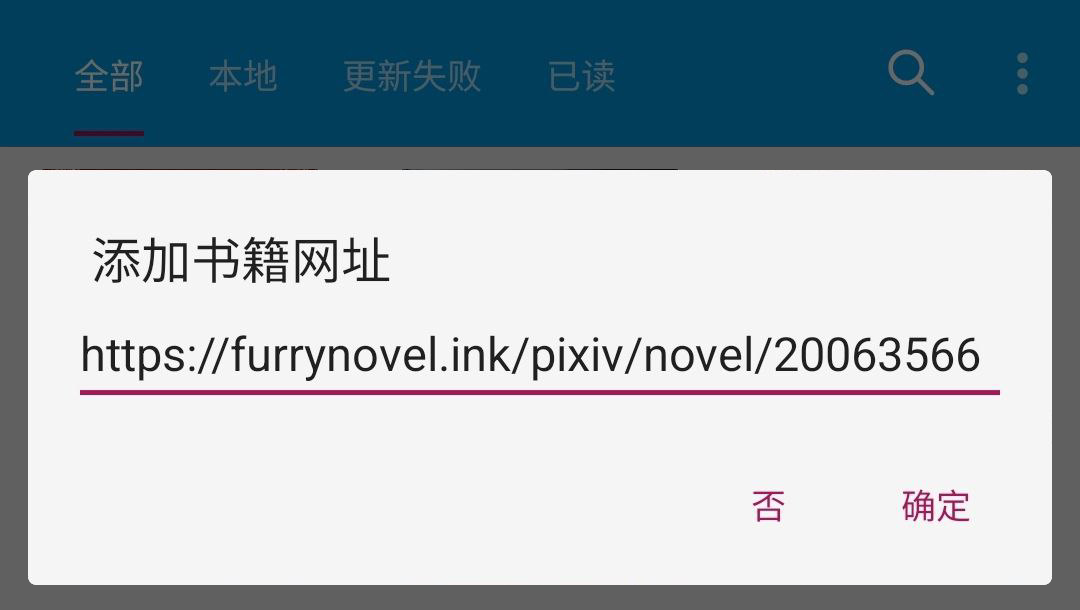
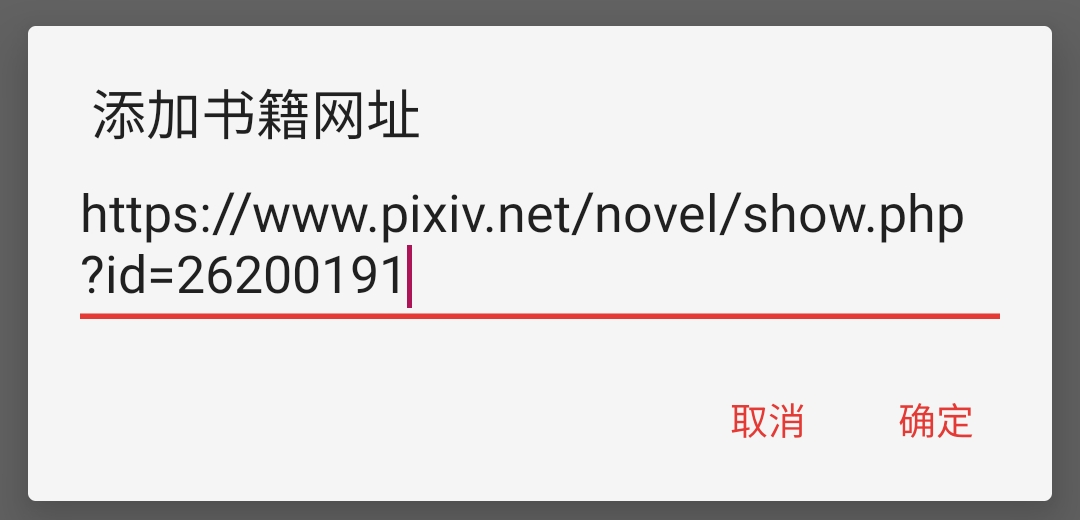
文档：添加小说：添加网址

diff --git a/doc/CommonSuffix.md b/doc/CommonSuffix.md
@@ -2,14 +2,12 @@
 <div v-if="pagePath.includes('BetterExperience') || pagePath.includes('QuickStart')">
 
 - ⭐️ [发现小说](Pixiv.md#DiscoverNovel)：发现页面，查看小说，添加小说到书架
-- 🔗 [添加网址](Pixiv.md#AddUrl)：书架页面，通过 **【添加网址】** 添加小说到书架
 - 🌐 [订阅源](Pixiv.md#RssSource)：订阅页面，通过 **【订阅源】** 添加小说到书架
-- ▶️ 全部功能详见 [Pixiv 书源 功能手册](Pixiv.md)
 ## 📖 添加小说 {#EnjoyReading}
 ### 🔍 [搜索小说](Pixiv.md#SearchNovel)
 > [!NOTE]
 >
-> **书架页面 - 放大镜 - 输入关键词 - 搜索小说**
+> **书架页面 - 放大镜 - 输入关键词 - 搜索小说 - 添加小说到书架**
 
 > [!TIP]
 > ✅ 默认同时搜索： **小说名称、系列小说名称、标签**
@@ -29,9 +27,46 @@
 点击搜索结果，进入小说详情页面
 ![img](./pic/BookInformation.png)
 
-点击【放入书架】，添加小说到书架；或点击【阅读】，开始试读
+点击【放入书架】，添加小说到书架
 
 
+### ⭐️ [发现小说](Pixiv.md#DiscoverNovel)
+发现页面，查看小说，添加小说到书架
+
+
+### 🔗 [添加网址](Pixiv.md#AddUrl)
+> [!NOTE]
+>
+> **书架 - 菜单 - 添加网址 - 粘贴小说链接 - 添加小说到书架**
+
+> [!TIP]
+> 
+> **可以同时添加多个小说的链接，支持链接：**
+> - **Pixiv 单篇小说链接**
+> - **Pixiv 系列小说链接**
+> - **Pixiv 作者链接（添加近期1本小说）**
+> 更多详见 [添加网址](Pixiv.md#AddUrl)
+
+
+当你收到 Pixiv 的链接时，可以通过添加网址，将其添加到书架
+
+![img](./pic/AddBookViaUrl1.png)
+![img](./pic/AddBookViaUrl2.png)
+
+> [!WARNING]
+> 
+> **无法添加**：Pixiv App 小说分享链接 **（删掉#号即可正常添加）**
+```
+测试页面 | 唐尼瑞姆 #pixiv https://www.pixiv.net/novel/show.php?id=26200191
+```
+
+![img](./pic/AddBookViaUrl3.png)
+
+
+### 🌐 [订阅源](Pixiv.md#RssSource)
+订阅页面，通过 **【订阅源】** 添加小说到书架
+
+### ▶️ 全部功能详见 [Pixiv 书源 功能手册](Pixiv.md)
 </div>
 
 

diff --git a/doc/CommonAddViaLink.md b/doc/CommonAddViaLink.md
@@ -18,7 +18,7 @@
 支持 Pixiv 多个格式的网址链接：
 - Pixiv 单篇小说链接
 ```
-https://www.pixiv.net/novel/show.php?id=20063566
+https://www.pixiv.net/novel/show.php?id=26200191
 ```
 - Pixiv 系列小说链接
 ```
@@ -31,7 +31,7 @@ https://www.pixiv.net/users/16721009
 **无法添加的链接：**
 - Pixiv App 小说分享链接 **（删掉#号即可正常添加）**
 ```
-测试页面 | 唐尼瑞姆 #pixiv https://www.pixiv.net/novel/show.php?id=20063566
+测试页面 | 唐尼瑞姆 #pixiv https://www.pixiv.net/novel/show.php?id=26200191
 ```
 </div>
 

diff --git a/doc/Pixiv.md b/doc/Pixiv.md
@@ -156,7 +156,7 @@ const pagePath = computed(() => page.value.relativePath.replace(/\.md$/, ""));
 ## 搜索小说 {#SearchNovel}
 > [!NOTE]
 >
-> **书架页面 - 放大镜 - 输入关键词 - 搜索小说**
+> **书架页面 - 放大镜 - 输入关键词 - 搜索小说 - 添加小说到书架**
 
 
 ### 🔎 搜索小说 {#SearchNovels}